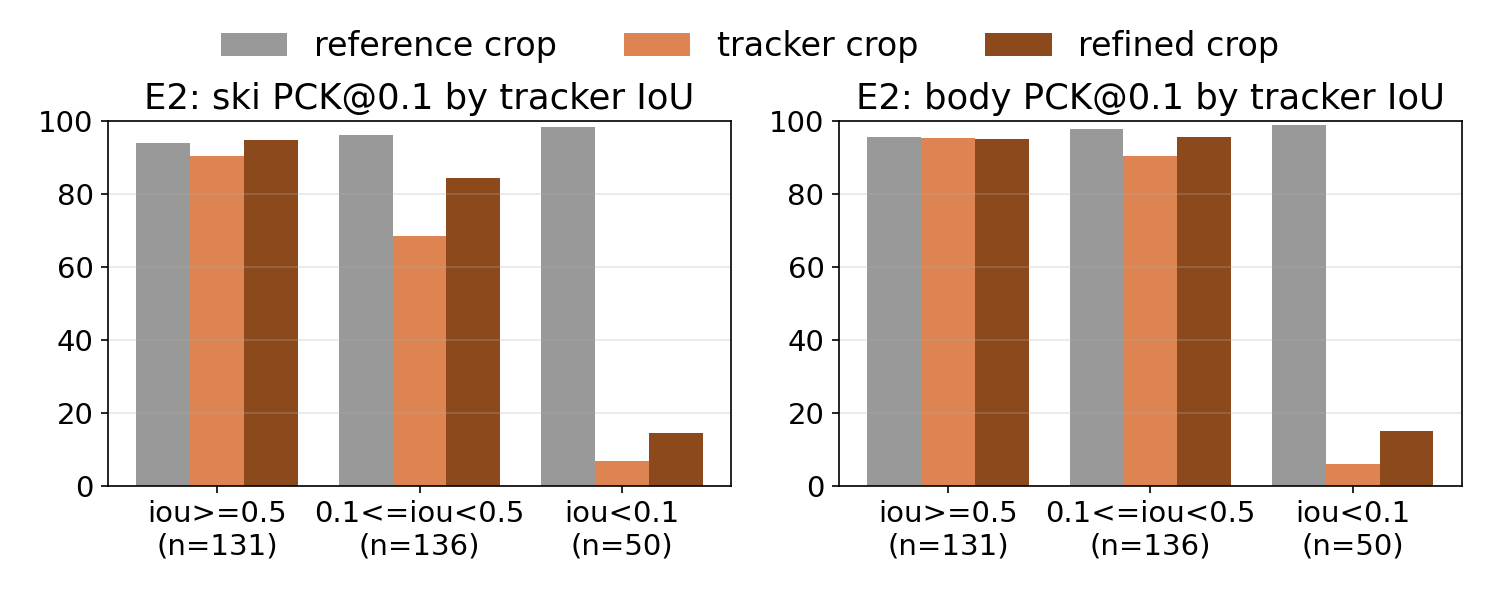
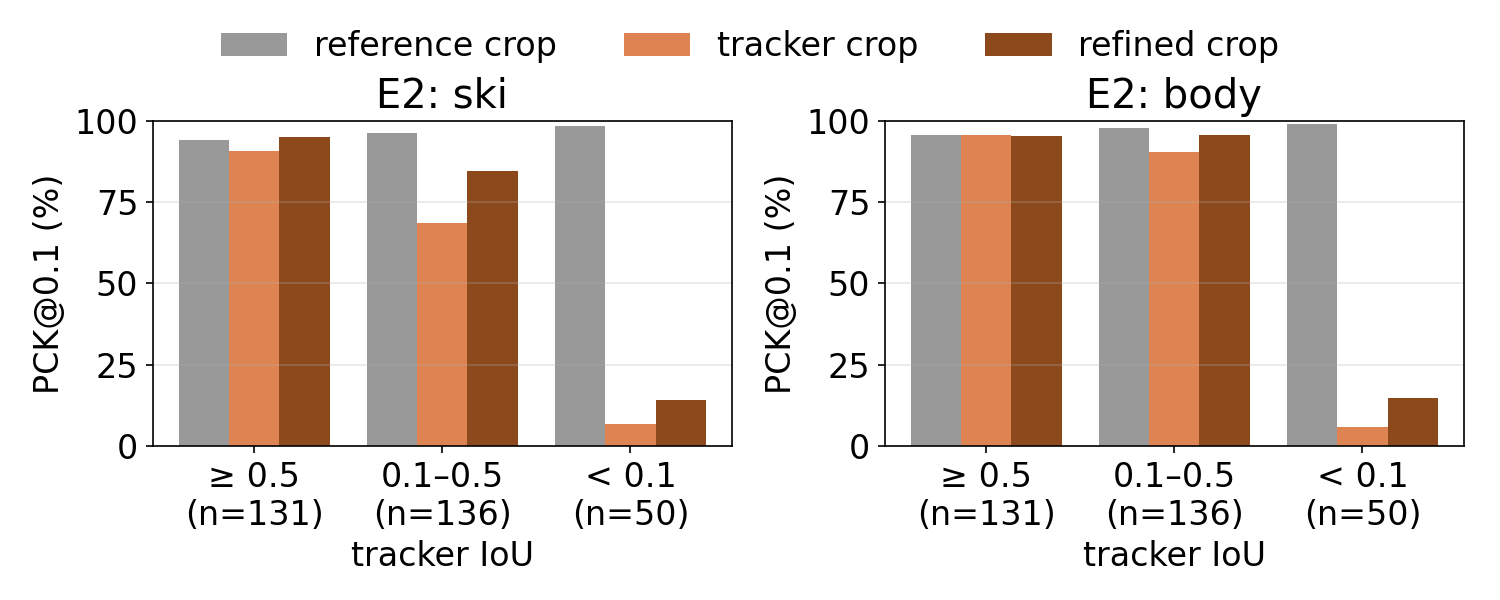
Final report: review fixes (drafting notes removed, claims corrected, definitions, cross-references, Figure 2)
At Ruichao's request after a full read-through:
- Drafting notes removed: the three \tbd notes and the appendix \outline. The repo-privacy/CA check, an
  acknowledgment and any other AI tool to disclose stay on Ruichao's list.
- Setup claim corrected: settings were fixed by rules in advance except replay tau/k, a judgment call on the
  val trade-off (D23); the epoch rule (D20) read training images. The appendix choices table now agrees.
- Where things run: pose under tracking is measured on Ski 2DPose videos (tracker started from the reference box
  at each segment's first label); 5.3 marks SkiTB vs Ski 2DPose replay numbers.
- Definitions: follow-cam, the relative confidence score, acceleration units, the 95% ski-end target (set in
  advance), SkiTB in the Introduction, PCK in the abstract, the 95% CI brackets.
- Every appendix float is now referenced from the main text; the E0 comparison is labeled as test.
- "Differences are computed before rounding" in Setup and the table captions.
- Abstract and Introduction: crop jitter's null clean-test result next to its tracker-crop and follow-cam gains;
  the abstract adds the pseudo-label other-event result.
- Figure 2 redrawn: y-axis label, IoU bins as tick labels under a "tracker IoU" axis, larger font
  (report/figures.py labels; report tests pass).
- Contributions sentence fixed ("main text"); AI Disclosure states the requested clarity edits.
[…]

diff --git a/final_report/main.tex b/final_report/main.tex
@@ -23,7 +23,7 @@
 % LENGTH (course rule): at most \pagelimit{} pages, excluding references, contributions, AI disclosure and the
 % appendix; TAs may not read the appendix. The outline budgets add up to about 2,100 words of prose next to the
 % 6 floats of the main text (figures 1--3, tables 1--3).
-% DRAFTING AIDS, to be removed before submission (search for \outline and \tbd):
+% DRAFTING AIDS (none left in the text since 2026-11-19; the macros stay defined, unused):
 %   \outline{...}  blue: Claude's outline of the facts a section needs. Replace it with your own prose.
 %   \tbd{...}      red: a number or item still to come (test numbers arrive with the Step 8 test run).
 \newcommand{\outline}[1]{{\color{blue!55!black}\small #1}}
@@ -48,11 +48,13 @@ layer it needs. COCO-trained pose models omit ski landmarks, and generic tracker
 combine a fixed SiamFC tracker, crops around its boxes, a COCO-pretrained HRNet-W32 fine-tuned to 24 body, ski and
 pole landmarks, pose-guided refinement through a second pass on the same frame, and a smoothed, skier-centered
 replay. A validation rule fixed in advance selects crop jitter from our augmentation study of jitter, blur and
-occlusion. Test ski landmark accuracy (PCK@0.1) reaches 94.8\% on well-framed crops, but 81.2\% on videos from events
-absent from training. In a paired evaluation, tracker crops cost 28.0 ski points; refinement recovers 9.3, about a
-third, without labels or retraining. Crop jitter adds 4.6 points on follow-camera footage; the replay keeps 93.7\% of
-ski ends visible, missing its 95\% target. After the test freeze, off-the-shelf STARK raises ski accuracy on tracker
-crops from 67.7\% to 86.5\%, supporting tracking as the main bottleneck.
+occlusion. Test ski landmark accuracy (percentage of correct keypoints, PCK@0.1) reaches 94.8\% on well-framed crops,
+but 81.2\% on videos from events absent from training. In a paired evaluation, tracker crops cost 28.0 ski points;
+refinement recovers 9.3, about a third, without labels or retraining. Crop jitter shows no clear gain on well-framed
+test crops, but adds 1.6 ski points on tracker crops and 4.6 on follow-camera footage. The replay keeps 93.7\% of ski
+ends visible, missing its 95\% target. After the test freeze, off-the-shelf STARK raises ski accuracy on tracker crops
+from 67.7\% to 86.5\%, supporting tracking as the main bottleneck, and pseudo-labels from unlabeled races raise the
+other-event score from 81.2\% to 89.3\%.
 \end{abstract}
 
 \section{Introduction}
@@ -60,8 +62,9 @@ crops from 67.7\% to 86.5\%, supporting tracking as the main bottleneck.
 Reviewing a ski run on video is difficult: broadcast cameras pan and zoom, the skier is small and often obscured by
 gates, and thin, fast-moving skis overlap. Our long-term goal is automatic technique feedback, but the datasets lack
 expert technique annotations. We therefore build the tracking and landmark-estimation layer such feedback would
-require. COCO-trained pose models predict no ski landmarks, while generic trackers drift on broadcast
-skiing~\cite{dunnhofer2024tracking}. SkiTB also shows that better tracking improves pose estimation.
+require. COCO-trained pose models predict no ski landmarks, while generic trackers drift on broadcast skiing, as
+the SkiTB skier-tracking benchmark shows~\cite{dunnhofer2024tracking}. SkiTB also shows that better tracking improves
+pose estimation.
 
 Our input is a single-camera skiing video and a box around the skier in its first frame. The pipeline
 (Figure~\ref{fig:pipeline}) combines a fixed tracker, a crop, a fine-tuned HRNet-W32 CNN, and a pose-guided second
@@ -75,7 +78,9 @@ measurements of tracking's pose-accuracy cost across tracker-overlap levels.
 On test reference crops, our selected model, E2 (with crop jitter), reaches 95.9\% body and 94.8\% ski PCK@0.1, but
 only 81.2\% ski on other-event test videos; training-event footage dominates the overall score. In the paired tracking
 evaluation, tracker crops cost 28.0 ski points. Refinement recovers $+9.3$ ski [6.7, 12.1] and $+3.5$ body [1.3, 6.0]
-points. Crop jitter adds 4.6 ski points on follow-cam. Two experiments after the test freeze, a stronger off-the-shelf
+points (95\% confidence intervals in brackets throughout). Crop jitter adds 1.6 ski points on tracker crops and 4.6 on
+follow-camera (follow-cam) footage, but shows no clear gain on test reference crops. Two experiments after the test
+freeze, a stronger off-the-shelf
 tracker and pseudo-labels from unlabeled races, are reported separately (Section~\ref{sec:extra}).
 
 This project is not shared with another class.
@@ -95,7 +100,7 @@ This project is not shared with another class.
 % Ruichao's text (2026-11-18), proofread; all 12 Related work citations verified (references.bib header).
 Ski 2DPose~\cite{bachmann2019motion} provides 24 body, ski and pole landmarks on broadcast footage, built for 3D
 motion capture from pan-tilt cameras. SkiTB~\cite{dunnhofer2024tracking}, a skier-tracking benchmark, fine-tunes
-AlphaPose on Ski 2DPose and links tracking quality to pose accuracy; its PCK uses half the head--neck length,
+AlphaPose~\cite{fang2023alphapose} on Ski 2DPose and links tracking quality to pose accuracy; its PCK uses half the head--neck length,
 preventing direct comparison with our scores. SkiTechCoach~\cite{hirano2025skitechcoach} combines simulator 3D poses,
 sole pressure, FIS points and expert feedback, with performance-estimation and LLM-coaching baselines. We pursue the
 perception layer for such feedback on broadcast video.
@@ -123,7 +128,8 @@ Our lightweight pose variant uses one round and agreement between two teacher mo
 Ski 2DPose~\cite{bachmann2019motion} contains 1,982 images from 16 alpine YouTube videos (Creative Commons),
 sparsely annotated across 158 single-camera segments with 24 visibility-flagged landmarks (14 body, 8 ski, 2 pole).
 To prevent near-duplicate leakage, we split by video: train/val/test contain 4/3/3 videos and 1,194/293/360 images.
-Six follow-cam videos (134 images) provide a separate out-of-distribution evaluation, performed once. One record (one
+Six follow-cam videos (134 images), filmed by a camera following the skier on training runs, provide a separate
+out-of-distribution evaluation, performed once. One record (one
 body point, no ski points) lacks a reference box and is excluded. Only visible labels are supervised and scored. All
 four training videos come from the Almaty 2017 Universiade; validation uses Trentino 2013 and Granada 2015. The Almaty
 giant-slalom test video contributes 80\% of the test ski labels (accuracy by event: Table~\ref{tab:extras}(b),
@@ -160,8 +166,8 @@ size $\times$0.9--1.1); E3 adds motion blur ($p=0.5$, 3--9\,px) and an occluding
 crop); E4 adds all three. A predefined validation rule selects the recipe (Section~\ref{sec:pose_alone}).
 
 SiamFC uses the released siamfc-pytorch weights~\cite{bertinetto2016fully,huang2019siamfcpytorch} and is initialized
-once per clip from the clip's first-frame box. Confidence is the peak of its sum-normalized response map; Youden's $J$
-on the SkiTB validation clips~\cite{youden1950index} sets the threshold (failure: IoU $<0.1$; ROC AUC 0.83).
+once per clip from the clip's first-frame box. Confidence is the peak of its sum-normalized response map; Youden's
+$J$~\cite{youden1950index} on the SkiTB validation clips sets the threshold (failure: IoU $<0.1$; ROC AUC 0.83).
 Off-the-shelf STARK-ST50 can replace SiamFC (Section~\ref{sec:extra}). The tracker box is expanded before standard
 padding. Our geometric refinement constructs $B = k_{\mathrm{ref}}\cdot\operatorname{tight}\{\hat x_j : j \in
 \text{body}\cup\text{ski},\ s_j \ge s_{\min}\}$ from pass-1 predictions $\hat x_j$ and scores $s_j$ (their tight box,
@@ -174,19 +180,24 @@ replay parameters appear in Setup.
 \subsection{Setup}
 \label{sec:setup}
 % Ruichao's text (2026-11-16), proofread.
-All settings were chosen on validation by rules fixed before each run (appendix Table~\ref{tab:choices}). After
+All settings were chosen without test data by rules fixed before each run, except the replay smoothing and width,
+which we set by judgment from the validation trade-off (appendix Table~\ref{tab:choices}). After
 recording split, configuration and checkpoint hashes, the main test evaluation ran once (2026-11-12, commit
 \texttt{bf546e3}); two later runs changed none of the main results (Section~\ref{sec:extra}). The choices were 150
 fine-tune epochs (ski tails unlearned at 50), recipe E2 (Section~\ref{sec:pose_alone}), crop expansion $\times1.1$
-before the $\times1.25$ padding, raw SiamFC confidence (AUC 0.83 versus 0.63 for the relative score), replay
-$\tau=0.2$\,s and width $2.5\times$ the tracker box, and refinement $s_{\min}=0.3$, $k_{\mathrm{ref}}=1.3$.
+before the $\times1.25$ padding, raw SiamFC confidence (AUC 0.83 versus 0.63 for the score divided by its median over
+the clip's first 10 tracked frames), replay $\tau=0.2$\,s and width $2.5\times$ the tracker box, and refinement
+$s_{\min}=0.3$, $k_{\mathrm{ref}}=1.3$ (grids: appendix Table~\ref{tab:grids_val}).
 
 PCK@$t$ is the share of visible landmarks predicted within $t$ times the diagonal of the tight box around the labeled
 body and ski points ($t=0.1$, $0.05$); body and ski are reported separately, poles as a supplement. Tracking uses IoU,
-success AUC, and the SkiTB toolkit's F-score; replay uses box and ski-end containment and acceleration. The 95\%
-cluster-bootstrap intervals~\cite{efron1994introduction} use 10,000 resamples: segments within videos for pose, SkiTB
-sequences for tracking. Pose baselines are E0 (the COCO model, on 10 shared body landmarks) and E1 (plain
-fine-tuning). For the integrated system, tracking starts at each segment's first labeled frame; subsequent labeled
+success AUC, and the SkiTB toolkit's F-score. Replay uses the share of the SkiTB ground-truth box inside the replay
+window, the share of visible Ski 2DPose ski-end labels inside it (target, set in advance: at least 95\%), and the mean
+acceleration of the window center (frame diagonals/s$^2$). The 95\% cluster-bootstrap
+intervals~\cite{efron1994introduction} use 10,000 resamples: segments within videos for pose, SkiTB sequences for
+tracking. Differences are computed before rounding. Pose baselines are E0 (the COCO model, on 10 shared body
+landmarks) and E1 (plain fine-tuning). Pose accuracy under tracking needs landmark labels, so it is measured on the
+Ski 2DPose videos: the tracker starts from the reference box at each segment's first labeled frame, and subsequent labeled
 frames are scored against the same labels using reference (label-dependent upper bound), tracker (baseline), and
 refined crops (Table~\ref{tab:system}; Figure~\ref{fig:strata}).
 
@@ -195,10 +206,10 @@ refined crops (Table~\ref{tab:system}; Figure~\ref{fig:strata}).
 % Ruichao's text (2026-11-16), proofread. The follow-cam viewpoint facts moved to the Analysis outline.
 Table~\ref{tab:pose}'s validation results select E2 under the rule fixed in advance: ski PCK@0.1 is 93.1\%, versus
 91.9/92.0/91.0\% for E1/E3/E4, with no recipe losing body accuracy. E2 $-$ E1 is $+1.2$ points [0.1, 2.3], rising to
-$+2.5$ [1.5, 3.6] under moderate crop error. E3/E4 improve body accuracy ($+1.7$/$+1.9$) but not ski accuracy.
+$+2.5$ [1.5, 3.6] under moderate crop error. E3/E4 improve body accuracy ($+1.7$/$+1.9$) but not ski accuracy (appendix Table~\ref{tab:aug_val}).
 
-Against E0, which predicts no skis, E1 shows no clear difference on the 10 shared body landmarks at PCK@0.1 ($+1.5$
-[$-1.0$, 3.7]) but improves at the stricter PCK@0.05 ($+4.9$ [2.6, 7.0]). On the test set, evaluated once, E2 $-$ E1
+On the test set, evaluated once, E1 shows no clear difference from E0, which predicts no skis, on the 10 shared body
+landmarks at PCK@0.1 ($+1.5$ [$-1.0$, 3.7]) but improves at the stricter PCK@0.05 ($+4.9$ [2.6, 7.0]). E2 $-$ E1
 shows no clear difference for ski PCK@0.1 ($+0.7$ [$-0.3$, 1.5]) or body PCK@0.1 ($-0.5$ [$-1.3$, 0.2]), but gains
 $+1.2$ [0.2, 2.2] at ski PCK@0.05.
 
@@ -206,7 +217,7 @@ However, 80\% of the test ski labels come from the training-event video: E2 scor
 other two videos (Table~\ref{tab:extras}(b), E2 column; Trentino 2013: 62.3\%, Snowplanet 2011: 85.0\%). Thus the
 overall 94.8\% $\approx 0.8\times98.1 + 0.2\times81.2$, and the validation-to-test rise is confounded by event
 composition. Post hoc, E2 $-$ E1 is $+1.4$ [0.8, 2.1] on the training event but $-2.3$ [$-6.4$, 0.9] on the
-other-event test videos (two videos, 76 images).
+other-event test videos (two videos, 76 images; appendix Table~\ref{tab:cross_event}).
 
 Under follow-cam's different camera setup, ski accuracy falls to 73.5\%/78.1\% for E1/E2 (E2 $-$ E1: $+4.6$ [2.9,
 6.7], intervals over its six videos); body stays at 97.4/97.5\%. Crop jitter helps on follow-cam; gains across events
@@ -236,7 +247,7 @@ remain uncertain.
   seed); the rule fixed in advance (highest val ski @0.1, at most 2 points of body loss) picked E2; only E1 and E2
   went to test (360 images, 2,197 ski labels per seed) and the follow-cam set (134 images, 6 videos).
   $^{\dagger}$Boxes shifted by 10\% and rescaled by up to $1.1\times$. $^{*}$10 shared COCO landmarks (E1: 96.2,
-  E2: 95.6).}
+  E2: 95.6). Differences are computed before rounding.}
   \label{tab:pose}
 \end{table}
 
@@ -244,12 +255,14 @@ remain uncertain.
 \label{sec:system}
 % Ruichao's text (2026-11-18), proofread; the tracker paragraph moved first and "(smoother)" added, as agreed.
 On 471 SkiTB test clips, SiamFC achieves mean IoU 0.404 [0.380, 0.428] and toolkit F-score 0.406 [0.387, 0.428], with
-258 failure episodes (IoU $<0.1$ for $\ge0.5$\,s) across 234 clips. Replay box containment is 0.963 [0.951, 0.973].
-Ski-end containment reaches 93.7\% (974/1,040) [86.5, 99.4], missing the 95\% target (validation: 99.4\%).
-Acceleration falls from 4.11 unsmoothed to 1.38, a 3.0-fold reduction (smoother).
+258 failure episodes (IoU $<0.1$ for $\ge0.5$\,s) across 234 clips. On the same clips, replay box containment is
+0.963 [0.951, 0.973], and acceleration falls from 4.11 unsmoothed to 1.38, a 3.0-fold reduction (smoother). On the
+Ski 2DPose test segments, ski-end containment reaches 93.7\% (974/1,040) [86.5, 99.4], missing the 95\% target
+(validation: 99.4\%).
 
 Relative to the label-dependent reference upper bound, tracker crops cost E2 18.1 body and 28.0 ski points at
-PCK@0.1 on test (Table~\ref{tab:system}; ski: 95.7$\to$67.7, interval [19.3, 37.7]), versus 14.8/18.4 on validation.
+PCK@0.1 on test (Table~\ref{tab:system}; ski: 95.7$\to$67.7, interval [19.3, 37.7]), versus 14.8/18.4 on validation (appendix
+Table~\ref{tab:system_val}).
 Refinement adds $+9.3$ ski [6.7, 12.1] and $+3.5$ body [1.3, 6.0] points, recovering 33\% of the ski cost
 (validation: 32\%) and 19\% of the body cost without labels or retraining. E1's gains are similar ($+9.0$ ski/$+3.0$
 body). Ski labels outside the crop fall from 30.5\% to 19.9\%; refinement falls back to pass 1 on 8--10\% of frames.
@@ -275,7 +288,8 @@ smaller gains at IoU $\ge0.5$ (90.5$\to$94.9). At IoU $<0.1$, accuracy rises fro
     \bottomrule
   \end{tabular}
   \caption{Pose under tracking on test, PCK@0.1 (\%) on the same 317 labeled frames (40 segments), seeds pooled.
-  Reference crops need the labels; last row: gain over the tracker crop, 95\% CI.}
+  Reference crops need the labels; last row: gain over the tracker crop, 95\% CI. Differences are computed before
+  rounding.}
   \label{tab:system}
 \end{table}
 
@@ -283,7 +297,7 @@ smaller gains at IoU $\ge0.5$ (90.5$\to$94.9). At IoU $<0.1$, accuracy rises fro
   \centering
   \includegraphics[width=0.5\linewidth]{figures/propagation_strata_test.png}
   \caption{E2 pose accuracy from reference (gray), tracker (orange) and refined (brown) crops on test, by IoU between
-  tracker and reference box.}
+  tracker and reference box; $n$: labeled frames per bin.}
   \label{fig:strata}
 \end{figure}
 
@@ -298,7 +312,8 @@ Tables~\ref{tab:pose}--\ref{tab:system} unchanged.
 Off-the-shelf STARK-ST50~\cite{yan2021learning} replaces SiamFC without fine-tuning on skiing; only its
 probability-based confidence threshold is recalibrated using the same rule. Testing followed validation regardless of
 its outcome (2026-11-15, commit \texttt{86dd90c}). Table~\ref{tab:extras}(a) shows SkiTB IoU 0.404$\to$0.679,
-tracker-crop ski 67.7$\to$86.5 and refined ski 77.0$\to$92.1; failure episodes fall from 258 to 66. Its toolkit
+tracker-crop ski 67.7$\to$86.5 and refined ski 77.0$\to$92.1; failure episodes fall from 258 to 66 (success curves:
+appendix Figure~\ref{fig:stark_success}). Its toolkit
 F-score of 0.677 is close to the 0.671 the SkiTB authors report for off-the-shelf STARK~\cite{dunnhofer2024tracking}.
 Refinement still adds 5.6 ski points [2.7, 9.0]. Replay retains 99.8\% of ski ends, meeting the 95\% target with
 smaller windows (0.48$\to$0.43 of the frame), but with higher acceleration (1.38$\to$1.69).
@@ -309,7 +324,7 @@ teachers' two-pass predictions are averaged; a non-pole joint is kept only if bo
 models agree within 2\% of the box diagonal, and a frame needs $\ge8$ kept joints. On validation, kept points are over
 95\% correct at PCK@0.05 (84--89\% unfiltered). Rules were committed before labeling (\texttt{23eb8a7}); testing
 followed validation (\texttt{624b1a4}). After excluding three Trentino-region races, 6,307 frames from 50 races are
-kept. Each epoch mixes the 1,194 real images with 1,194 pseudo-labeled frames, using E2's recipe and two seeds.
+kept (examples: appendix Figure~\ref{fig:pseudo}). Each epoch mixes the 1,194 real images with 1,194 pseudo-labeled frames, using E2's recipe and two seeds.
 Table~\ref{tab:extras}(b) shows a modest primary validation gain ($+1.6$ [0.1, 3.6]) and a larger other-event test
 gain (81.2$\to$89.3; $+8.1$ [3.2, 13.9]), without clear overall-test or follow-cam gains. The leakage guard is event
 metadata; the post-hoc image-hash check was inconclusive. Limitations include only two other-event test videos (76
@@ -348,7 +363,7 @@ although E2's best checkpoints came before the end of its schedule (epochs 112 a
   pass a filter chosen on val; the student PL trains like E2 on real plus pseudo-labeled frames. The E2 column of (b)
   is also the cross-event breakdown: all training videos and one test video come from one event (Almaty 2017).
   PCK (\%), seeds pooled, reference crops unless noted; paired 95\% CI over SkiTB sequences or segments within videos
-  (follow-cam: its videos).}
+  (follow-cam: its videos). Differences are computed before rounding.}
   \label{tab:extras}
 \end{table}
 
@@ -422,14 +437,12 @@ examples, crops that include poles, the full pseudo-label version, and more seed
 
 Code is available at \url{https://github.com/RichardZRC/skier_project}. Both trackers are supported through
 \texttt{--tracker siamfc|stark}, with SiamFC as the default; the README provides their commands.
-\tbd{Before submitting: check whether the repo is private; if so, add your assigned CA as a collaborator.}
 
 \section{Contributions}
 % Drafted by Claude (2026-11-18) at Ruichao's request (outside the page limit; not core analysis). Review it.
-Ruichao Zhang is the sole author: conceived the project, made and approved the design decisions and selection rules
-before each run, directed the experiments, and wrote the report's text. The datasets' authors are cited where the data
-are described. AI assistance is described in the next section.
-\tbd{Acknowledge anyone who advised (for example, your TA mentor), or delete this note.}
+Ruichao Zhang is the sole author. Ruichao conceived the project, made and approved the design decisions and selection
+rules before each run, directed the experiments, and wrote the report's main text. The datasets' authors are cited
+where the data are described. AI assistance is described in the next section.
 
 \section{AI Disclosure}
 % Drafted by Claude (2026-11-18) at Ruichao's request. It is Ruichao's attestation to the course: check every
@@ -438,10 +451,11 @@ We used Claude Code (Anthropic) throughout the project. It wrote and tested most
 integration and the pseudo-label pipeline; ran the experiments on our GPU laptop; debugged; and checked every reference
 against its source. For this report, it prepared the tables, the figures and their captions, and an outline of the
 relevant facts for each section; proofread our prose with minimal edits, suggested wording, checked each number
-against the evidence files, and typeset the text in LaTeX; and drafted the Contributions section and this disclosure.
-The research question, the design decisions and selection rules (each approved before its run), and the report's
-analysis, interpretation and conclusions are our own; we reviewed every AI suggestion and accepted or rejected it.
-\tbd{Add any other AI tool you used (for example, for the milestone or the proofreading audit), or delete this note.}
+against the evidence files, and typeset the text in LaTeX; made clarity edits we requested after reviewing the full
+draft (definitions, dataset and cross-references, corrected claims); and drafted the Contributions section and this
+disclosure. The research question, the design decisions and selection rules (each approved before its run), and the
+report's analysis, interpretation and conclusions are our own; we reviewed every AI suggestion and accepted or
+rejected it.
 
 \section*{References}
 \renewcommand{\bibsection}{}   % the "References" heading is already typeset above
@@ -454,28 +468,27 @@ analysis, interpretation and conclusions are our own; we reviewed every AI sugge
 \appendix
 \section{Appendix}
 \label{sec:appendix}
-\outline{Backup detail only: TAs may not read the appendix, so every important number is also in the main text (the
-picks in Setup, the val selection in Table~\ref{tab:pose}, the cross-event numbers in Table~\ref{tab:extras}(b)).
-Each table needs one sentence of text from you.}
+% Backup detail only: TAs may not read the appendix, so every important number is also in the main text. Each float
+% below is referenced from the section it supports.
 
 \begin{table}[h]
   \centering
   \small
   \begin{tabular}{p{0.21\linewidth}p{0.32\linewidth}p{0.08\linewidth}p{0.25\linewidth}}
     \toprule
-    Choice & Values tried (val) & Picked & How \\
+    Choice & Values tried & Picked & How \\
     \midrule
-    Fine-tune epochs & 50, 150 & 150 & ski tails unlearned at 50 \\
+    Fine-tune epochs & 50, 150 & 150 & rule (ski tails learned on training images) \\
     Augmentation recipe & E1--E4, 2 seeds each & E2 & pre-registered rule \\
     Pose crop factor & 1.0, 1.1, 1.2, 1.35, 1.5 & 1.1 & rule (best tracked PCK) \\
     Confidence signal & raw score, relative score (AUC 0.83 / 0.63) & raw & rule (higher AUC) \\
-    Replay $\tau$ (s) $\times$ width $k$ & \{0, 0.1, 0.2, 0.4\} $\times$ \{1.5, 2, 2.5, 3\} & 0.2, 2.5 & trade-off on val \\
+    Replay $\tau$ (s) $\times$ width $k$ & \{0, 0.1, 0.2, 0.4\} $\times$ \{1.5, 2, 2.5, 3\} & 0.2, 2.5 & judgment (val trade-off) \\
     Replay zoom-out gating & on, off & on & rule (containment) \\
     Refinement $s_{\min} \times k_{\mathrm{ref}}$ & \{0.1, 0.2, 0.3, 0.5\} $\times$ \{1.0, 1.15, 1.3\} & 0.3, 1.3 & rule + gate \\
     \bottomrule
   \end{tabular}
-  \caption{Hyperparameters and design choices explored, all on val. Architecture (HRNet-W32), learning rates and the
-  schedule were fixed, not searched.}
+  \caption{Hyperparameters and design choices explored before the test run, on val (the epoch check: on training
+  images). Architecture (HRNet-W32) and learning rates were fixed, not searched; the schedule changed only in length.}
   \label{tab:choices}
 \end{table}
 
@@ -501,7 +514,8 @@ Each table needs one sentence of text from you.}
   \end{tabular}
   \caption{Augmentation study on val (293 images; 3,759 body / 1,752 ski labels per seed), PCK (\%), mean of two
   seeds; differences with 95\% CI. Ski @0.05 (E1--E4): 82.9 / 84.3 / 82.0 / 78.8. The rule fixed in advance (highest ski @0.1, at most 2 points of body loss)
-  picks E2. $^{\dagger}$Boxes shifted by 10\% and rescaled by up to $1.1\times$.}
+  picks E2. $^{\dagger}$Boxes shifted by 10\% and rescaled by up to $1.1\times$. Differences are computed before
+  rounding.}
   \label{tab:aug_val}
 \end{table}
 
@@ -521,7 +535,7 @@ Each table needs one sentence of text from you.}
   \end{tabular}
   \caption{Pose under tracking on val, PCK@0.1 (\%) on the same 261 labeled frames (31 segments), seeds pooled.
   SiamFC on the 75 SkiTB val clips: mean IoU 0.363 [0.299, 0.453], toolkit F-score 0.384; the replay keeps
-  99.4\% of ski ends in view.}
+  99.4\% of ski ends in view. Differences are computed before rounding.}
   \label{tab:system_val}
 \end{table}
 

diff --git a/src/skier/report/figures.py b/src/skier/report/figures.py
@@ -126,6 +126,7 @@ def propagation_strata(strata: list[dict], path: Path, run: str = "E2") -> Path:
     PCK@0.1)."""
     plt = _plt()
     order = ["iou>=0.5", "0.1<=iou<0.5", "iou<0.1"]
+    names = {"iou>=0.5": "≥ 0.5", "0.1<=iou<0.5": "0.1–0.5", "iou<0.1": "< 0.1"}
     rows = {s["value"]: s for s in strata if s["stratum"] == "tracker_iou" and s["run"] == run}
     vals = [v for v in order if v in rows]
     crops = [("reference", "reference crop", "#999999"), ("tracked", "tracker crop", RECIPE_COLORS[run])]
@@ -138,9 +139,11 @@ def propagation_strata(strata: list[dict], path: Path, run: str = "E2") -> Path:
         for i, (crop, label, color) in enumerate(crops):
             ax.bar(x + (i - (len(crops) - 1) / 2) * width, [rows[v][f"{crop}_{g}"] for v in vals], width, label=label,
                    color=color)
-        ax.set_xticks(x, [f"{v}\n(n={rows[v]['n_images']})" for v in vals])
+        ax.set_xticks(x, [f"{names[v]}\n(n={rows[v]['n_images']})" for v in vals])
         ax.set_ylim(0, 100)
-        ax.set_title(f"{run}: {g} PCK@0.1 by tracker IoU")
+        ax.set_ylabel("PCK@0.1 (%)")
+        ax.set_xlabel("tracker IoU")
+        ax.set_title(f"{run}: {g}")
         ax.grid(axis="y", alpha=0.3)
     fig.legend(*axes[0].get_legend_handles_labels(), loc="upper center", ncol=len(crops), frameon=False)
     fig.tight_layout(rect=(0, 0, 1, 0.93))  # the legend sits above the panels, clear of the bars
